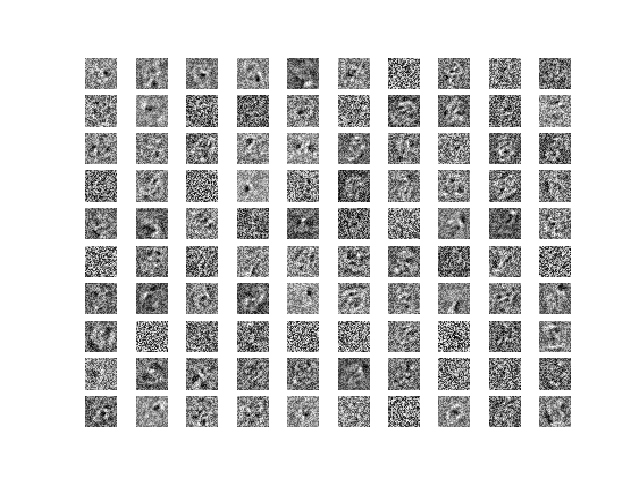
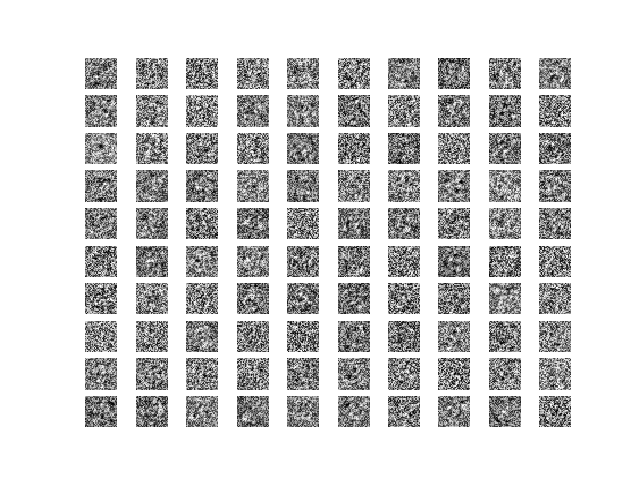
relu layer change

diff --git a/CZ4042-Neural-Networks/Proj2/project2b_help.py b/CZ4042-Neural-Networks/Proj2/project2b_help.py
@@ -34,7 +34,7 @@ rng = np.random.RandomState(123)
 theano_rng = RandomStreams(rng.randint(2 ** 30))
 
 corruption_level=0.1
-training_epochs = 25
+training_epochs = 5
 learning_rate = 0.1
 batch_size = 128
 
@@ -61,15 +61,15 @@ tilde_x = theano_rng.binomial(size=x.shape, n=1, p=1 - corruption_level,
 y1 = T.nnet.sigmoid(T.dot(tilde_x, W1) + b1)
 z1 = T.nnet.sigmoid(T.dot(y1, W1_prime) + b1_prime)
 
-y2 = T.nnet.sigmoid(T.dot(z1, W2) + b2)
+y2 = T.nnet.sigmoid(T.dot(y1, W2) + b2)
 z2 = T.nnet.sigmoid(T.dot(y2, W2_prime) + b2_prime)
 
-y3 = T.nnet.sigmoid(T.dot(z2, W3) + b3)
+y3 = T.nnet.sigmoid(T.dot(y2, W3) + b3)
 z3 = T.nnet.sigmoid(T.dot(y3, W3_prime) + b3_prime)
 
 cost1 = - T.mean(T.sum(x * T.log(z1) + (1 - x) * T.log(1 - z1), axis=1))
-cost2 = - T.mean(T.sum(x * T.log(z2) + (1 - x) * T.log(1 - z2), axis=1))
-cost3 = - T.mean(T.sum(x * T.log(z3) + (1 - x) * T.log(1 - z3), axis=1))
+cost2 = - T.mean(T.sum(y1 * T.log(z2) + (1 - y1) * T.log(1 - z2), axis=1))
+cost3 = - T.mean(T.sum(y2 * T.log(z3) + (1 - y2) * T.log(1 - z3), axis=1))
 
 params1 = [W1, b1, b1_prime]
 grads1 = T.grad(cost1, params1)
@@ -77,6 +77,21 @@ grads1 = T.grad(cost1, params1)
 updates1 = [(param1, param1 - learning_rate * grad1)
            for param1, grad1 in zip(params1, grads1)]
 train_da1 = theano.function(inputs=[x], outputs = cost1, updates = updates1, allow_input_downcast = True)
+
+
+params2 = [W2, b2, b2_prime]
+grads2 = T.grad(cost2, params2)
+
+updates2 = [(param2, param2 - learning_rate * grad2)
+           for param2, grad2 in zip(params2, grads2)]
+train_da2 = theano.function(inputs=[x], outputs = cost2, updates = updates2, allow_input_downcast = True)
+
+params3 = [W3, b3, b3_prime]
+grads3 = T.grad(cost3, params3)
+
+updates3 = [(param3, param3 - learning_rate * grad3)
+           for param3, grad3 in zip(params3, grads3)]
+train_da3 = theano.function(inputs=[x], outputs = cost3, updates = updates3, allow_input_downcast = True)
 
 
 
@@ -105,14 +120,38 @@ for epoch in range(training_epochs):
     d.append(np.mean(c, dtype='float64'))
     print(d[epoch])
 
-
-
-
-pylab.figure("Cross entropy hidden_layer1")
-pylab.plot(range(training_epochs), d)
+pylab.figure("Cross entropy hidden layers")
+pylab.plot(range(training_epochs), d, color = "blue", label = "Training layer 1")
 pylab.xlabel('iterations')
 pylab.ylabel('cross-entropy')
-pylab.savefig('figure_2b_h1.png')
+
+print("\ntraining dae2")
+d = []
+for epoch in range(training_epochs):
+    # go through trainng set
+    c = []
+    for start, end in zip(range(0, len(trX), batch_size), range(batch_size, len(trX), batch_size)):
+        c.append(train_da2(trX[start:end]))
+    d.append(np.mean(c, dtype='float64'))
+    print(d[epoch])
+
+
+pylab.plot(range(training_epochs), d, color = "red", label = "Training layer 2")
+
+
+print("\training dae3")
+d = []
+for epoch in range(training_epochs):
+    # go through trainng set
+    c = []
+    for start, end in zip(range(0, len(trX), batch_size), range(batch_size, len(trX), batch_size)):
+        c.append(train_da3(trX[start:end]))
+    d.append(np.mean(c, dtype='float64'))
+    print(d[epoch])
+
+pylab.plot(range(training_epochs), d, color = "green", label = "Training layer 3")
+pylab.plt.legend(loc = "best")
+
 
 
 

diff --git a/CZ4042-Neural-Networks/Proj2/project2a_1.py b/CZ4042-Neural-Networks/Proj2/project2a_1.py
@@ -52,7 +52,7 @@ def model(X, w1, b1, w2, b2, w3, b3, w4, b4):
     o3 = T.flatten(o2, outdim=2)
 
     #make the network fully connected, having a layer of 100 neurons
-    y3 = T.nnet.sigmoid(T.dot(o3, w3) + b3)
+    y3 = T.nnet.relu(T.dot(o3, w3) + b3)
 
     #forward the output of fully connected layer to the 10 classification neurons in py_x,
     #activation function is now the softmax for probabilities in the outputs
